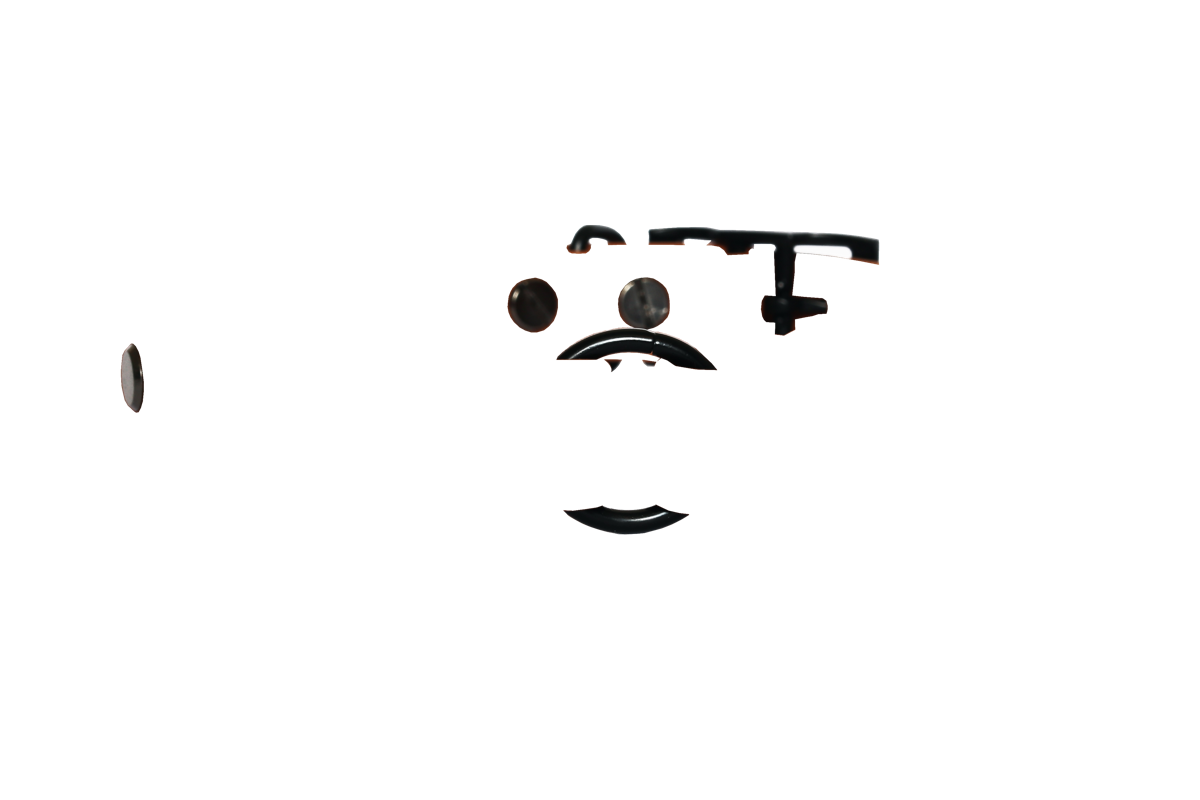
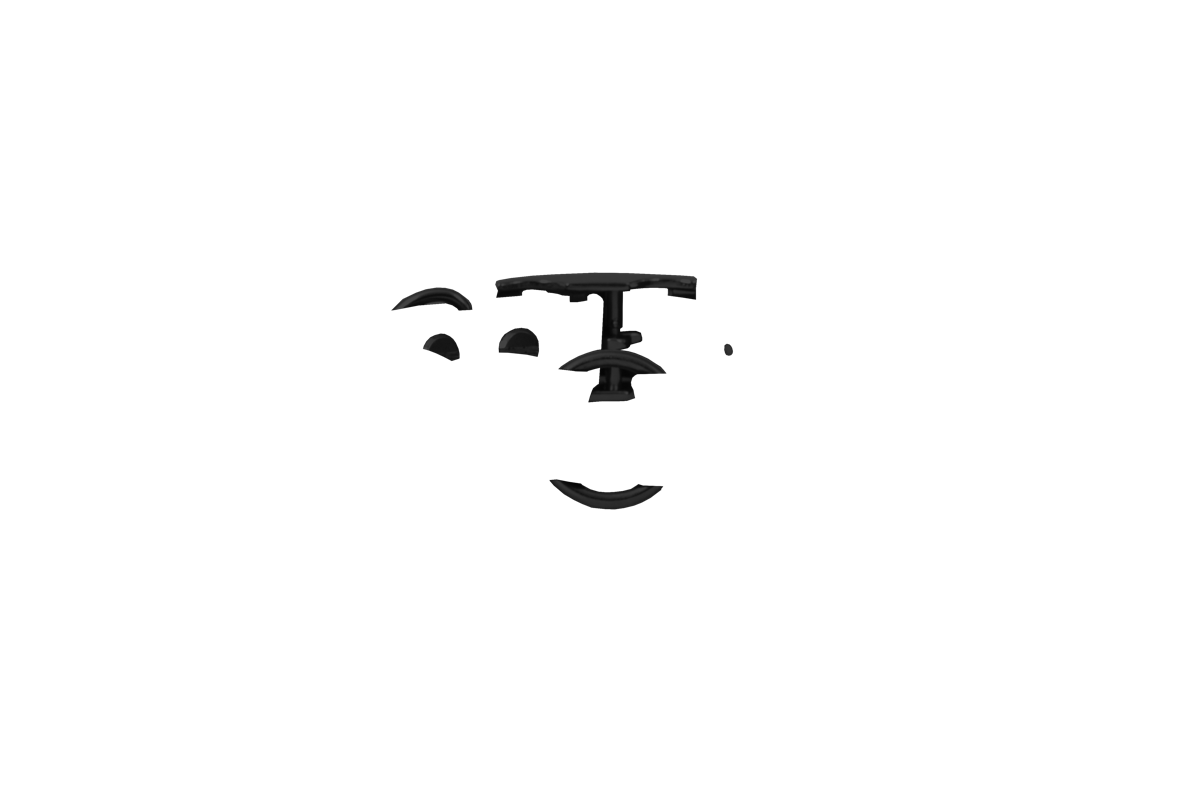
recent changes

Changed region(s): [[0.3083, 0.2812, 0.74, 0.5], [0.4625, 0.5938, 0.5858, 0.6875], [0.0925, 0.4375, 0.1233, 0.5312]]

diff --git a/index.html b/index.html
@@ -39,7 +39,8 @@
      <div class="img-container slide">
       <img src="img/standard-left.png" alt="collar_bg" class="foreground"/>
       <img src="img/standard-right.png" alt="collar_bg" class="background"/>
-      <img src="img/standard-blackhw.png" alt="collar_hardware" class="hardware"/>
+      <img src="img/standard-silverhw.png" alt="collar_hardware" class="hardware"/>
+      <img src="img/standard-rhinestones.png" alt="collar_hardware" class="hardware"/>
     </div>
     <button aria-label="Next" class="slider-next">»</button>
   </div>
